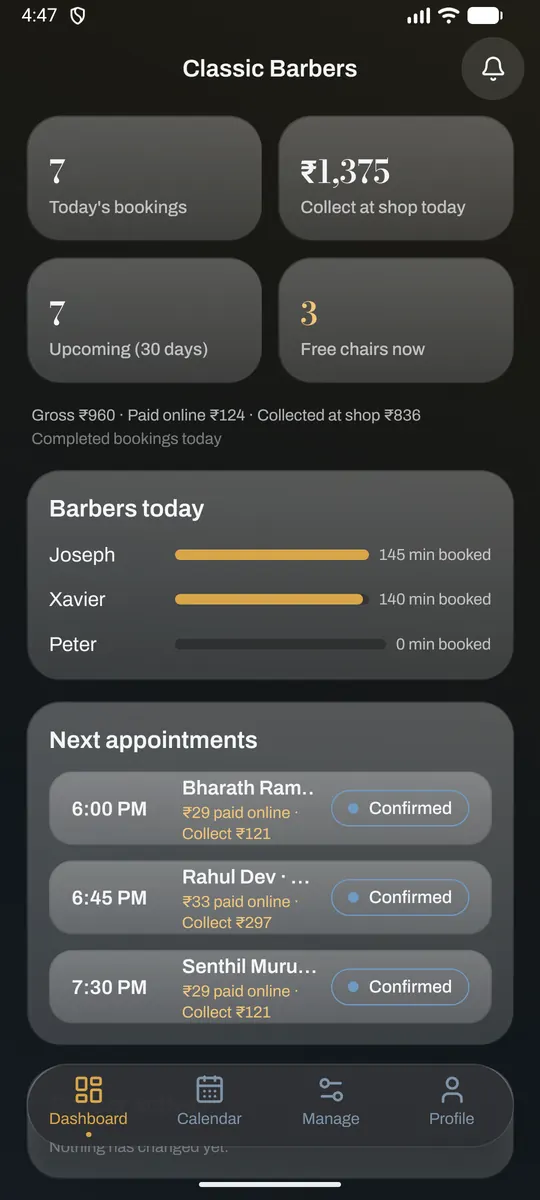
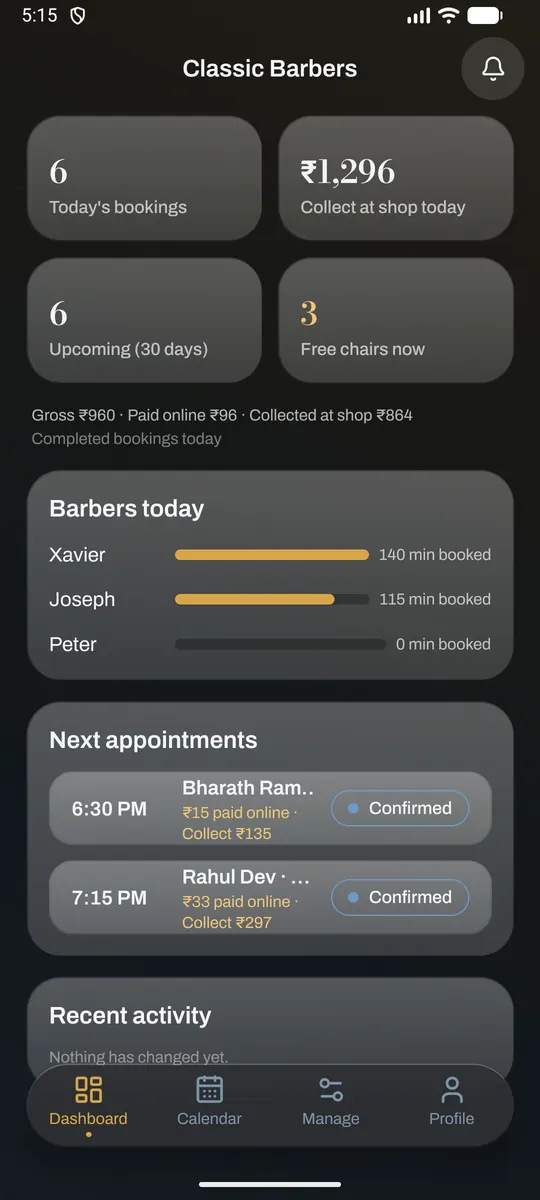
content(site): owners card — 10% with a ₹10 minimum; dashboard screenshot at the new floor

diff --git a/docs/index.html b/docs/index.html
@@ -256,11 +256,11 @@
             <div class="money glass reveal">
               <p class="money__title">No upfront fees. OGSTYLE earns only from the small advance customers pay online.</p>
               <p>
-                <!-- PF-1: the platform default (Shop.commissionPercent 10, min ₹29, max ₹199,
-                     never more than 25% of the total). Change this if a shop's rate differs. -->
-                Customers pay 10% of the booking online when they book. Small bookings have a
-                minimum of up to ₹29, and the advance never goes above ₹199. They pay you the
-                rest at the chair, in cash or UPI.
+                <!-- PF-1: the new-shop default (trim-time DECISIONS 2026-11-21): 10%, min ₹10,
+                     max ₹199, and never more than 25% of the total, so a booking under ₹40
+                     pays less than ₹10. Change this if the defaults or a shop's rate change. -->
+                Customers pay 10% of the booking online when they book (minimum ₹10, maximum
+                ₹199). They pay you the rest at the chair, in cash or UPI.
               </p>
             </div>
           </div>

diff --git a/docs/assets/CREDITS.md b/docs/assets/CREDITS.md
@@ -11,8 +11,8 @@ seed fixtures.
 - Location was mocked to Kanyakumari town (8.0883, 77.5385). The screens
   profile adds three fictional demo shops there (Cape Gents Hair Studio, Lotus
   Ladies Beauty Parlour, Sea Breeze Unisex Salon).
-- Every shop uses the platform's default 10% advance (₹680 → ₹68 online). Small
-  bookings show the ₹29 minimum advance.
+- Every shop uses the new-shop defaults: a 10% advance (₹680 → ₹68 online,
+  ₹150 → ₹15) with a ₹10 minimum.
 - `07-review.webp`: the coupon field's placeholder text ("e.g. FLAT100", app
   copy that names a seed coupon code) was blanked in the image. The field
   itself is unchanged.
